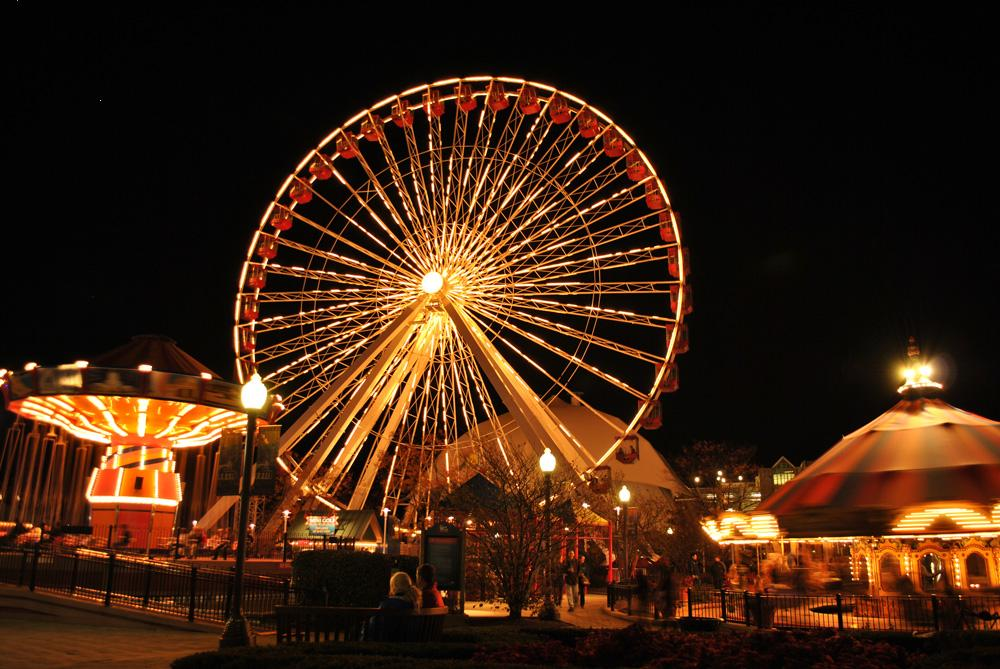
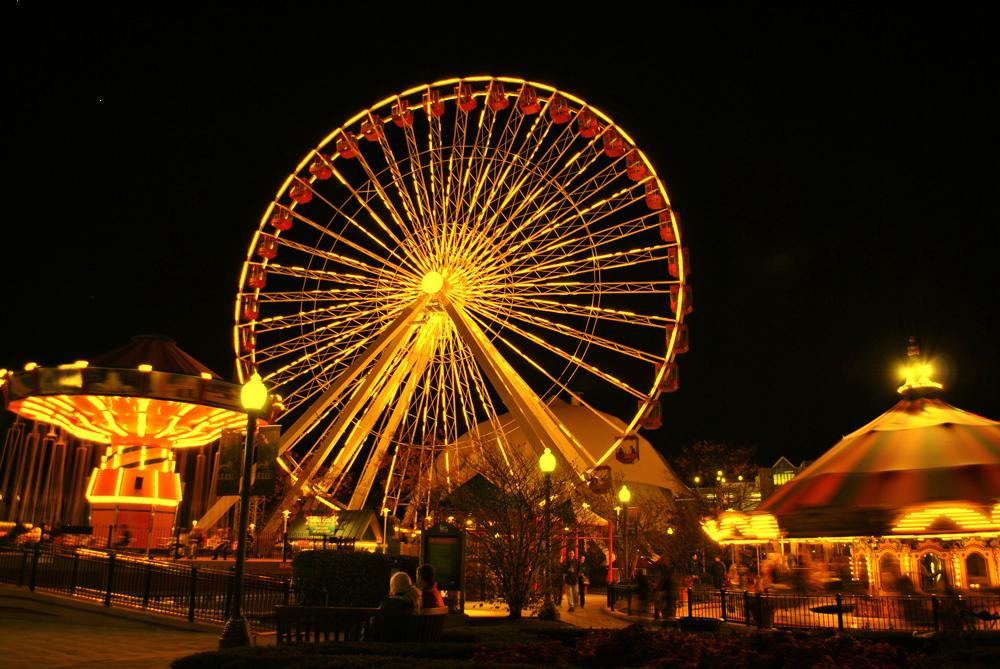
inverse kitty black and white beach

diff --git a/ColorLabs17/doc/TestPicture17.html b/ColorLabs17/doc/TestPicture17.html
@@ -1,0 +1,113 @@
+<!DOCTYPE HTML>
+<html lang="en">
+<head>
+<!-- Generated by javadoc (21) on Mon Nov 10 07:48:51 CST 2025 -->
+<title>TestPicture17</title>
+<meta name="viewport" content="width=device-width, initial-scale=1">
+<meta http-equiv="Content-Type" content="text/html; charset=UTF-8">
+<meta name="dc.created" content="2025-11-10">
+<meta name="description" content="declaration: class: TestPicture17">
+<meta name="generator" content="javadoc/ClassWriterImpl">
+<link rel="stylesheet" type="text/css" href="stylesheet.css" title="Style">
+<script type="text/javascript" src="script.js"></script>
+</head>
+<body class="class-declaration-page">
+<script type="text/javascript"></script>
+<noscript>
+<div>JavaScript is disabled on your browser.</div>
+</noscript>
+<div class="flex-box">
+<div class="flex-content">
+<main role="main">
+<!-- ======== START OF CLASS DATA ======== -->
+<div class="header">
+<h1 title="Class TestPicture17" class="title">Class TestPicture17</h1>
+</div>
+<div class="inheritance" title="Inheritance Tree"><a href="https://docs.oracle.com/en/java/javase/21/docs/api/java.base/java/lang/Object.html" title="class or interface in java.lang" class="external-link">java.lang.Object</a>
+<div class="inheritance">TestPicture17</div>
+</div>
+<section class="class-description" id="class-description">
+<hr>
+<div class="type-signature"><span class="modifiers">public class </span><span class="element-name type-name-label">TestPicture17</span>
+<span class="extends-implements">extends <a href="https://docs.oracle.com/en/java/javase/21/docs/api/java.base/java/lang/Object.html" title="class or interface in java.lang" class="external-link">Object</a></span></div>
+</section>
+<section class="summary">
+<ul class="summary-list">
+<!-- ======== CONSTRUCTOR SUMMARY ======== -->
+<li>
+<section class="constructor-summary" id="constructor-summary">
+<h2>Constructor Summary</h2>
+<div class="caption"><span>Constructors</span></div>
+<div class="summary-table two-column-summary">
+<div class="table-header col-first">Constructor</div>
+<div class="table-header col-last">Description</div>
+<div class="col-constructor-name even-row-color"><code><a href="#%3Cinit%3E()" class="member-name-link">TestPicture17</a>()</code></div>
+<div class="col-last even-row-color">&nbsp;</div>
+</div>
+</section>
+</li>
+<!-- ========== METHOD SUMMARY =========== -->
+<li>
+<section class="method-summary" id="method-summary">
+<h2>Method Summary</h2>
+<div id="method-summary-table">
+<div class="table-tabs" role="tablist" aria-orientation="horizontal"><button id="method-summary-table-tab0" role="tab" aria-selected="true" aria-controls="method-summary-table.tabpanel" tabindex="0" onkeydown="switchTab(event)" onclick="show('method-summary-table', 'method-summary-table', 3)" class="active-table-tab">All Methods</button><button id="method-summary-table-tab1" role="tab" aria-selected="false" aria-controls="method-summary-table.tabpanel" tabindex="-1" onkeydown="switchTab(event)" onclick="show('method-summary-table', 'method-summary-table-tab1', 3)" class="table-tab">Static Methods</button><button id="method-summary-table-tab4" role="tab" aria-selected="false" aria-controls="method-summary-table.tabpanel" tabindex="-1" onkeydown="switchTab(event)" onclick="show('method-summary-table', 'method-summary-table-tab4', 3)" class="table-tab">Concrete Methods</button></div>
+<div id="method-summary-table.tabpanel" role="tabpanel" aria-labelledby="method-summary-table-tab0">
+<div class="summary-table three-column-summary">
+<div class="table-header col-first">Modifier and Type</div>
+<div class="table-header col-second">Method</div>
+<div class="table-header col-last">Description</div>
+<div class="col-first even-row-color method-summary-table method-summary-table-tab1 method-summary-table-tab4"><code>static void</code></div>
+<div class="col-second even-row-color method-summary-table method-summary-table-tab1 method-summary-table-tab4"><code><a href="#main(java.lang.String%5B%5D)" class="member-name-link">main</a><wbr>(<a href="https://docs.oracle.com/en/java/javase/21/docs/api/java.base/java/lang/String.html" title="class or interface in java.lang" class="external-link">String</a>[]&nbsp;args)</code></div>
+<div class="col-last even-row-color method-summary-table method-summary-table-tab1 method-summary-table-tab4">
+<div class="block">main method, to test the picture</div>
+</div>
+</div>
+</div>
+</div>
+<div class="inherited-list">
+<h3 id="methods-inherited-from-class-java.lang.Object">Methods inherited from class&nbsp;java.lang.<a href="https://docs.oracle.com/en/java/javase/21/docs/api/java.base/java/lang/Object.html" title="class or interface in java.lang" class="external-link">Object</a></h3>
+<code><a href="https://docs.oracle.com/en/java/javase/21/docs/api/java.base/java/lang/Object.html#clone()" title="class or interface in java.lang" class="external-link">clone</a>, <a href="https://docs.oracle.com/en/java/javase/21/docs/api/java.base/java/lang/Object.html#equals(java.lang.Object)" title="class or interface in java.lang" class="external-link">equals</a>, <a href="https://docs.oracle.com/en/java/javase/21/docs/api/java.base/java/lang/Object.html#getClass()" title="class or interface in java.lang" class="external-link">getClass</a>, <a href="https://docs.oracle.com/en/java/javase/21/docs/api/java.base/java/lang/Object.html#hashCode()" title="class or interface in java.lang" class="external-link">hashCode</a>, <a href="https://docs.oracle.com/en/java/javase/21/docs/api/java.base/java/lang/Object.html#notify()" title="class or interface in java.lang" class="external-link">notify</a>, <a href="https://docs.oracle.com/en/java/javase/21/docs/api/java.base/java/lang/Object.html#notifyAll()" title="class or interface in java.lang" class="external-link">notifyAll</a>, <a href="https://docs.oracle.com/en/java/javase/21/docs/api/java.base/java/lang/Object.html#toString()" title="class or interface in java.lang" class="external-link">toString</a>, <a href="https://docs.oracle.com/en/java/javase/21/docs/api/java.base/java/lang/Object.html#wait()" title="class or interface in java.lang" class="external-link">wait</a>, <a href="https://docs.oracle.com/en/java/javase/21/docs/api/java.base/java/lang/Object.html#wait(long)" title="class or interface in java.lang" class="external-link">wait</a>, <a href="https://docs.oracle.com/en/java/javase/21/docs/api/java.base/java/lang/Object.html#wait(long,int)" title="class or interface in java.lang" class="external-link">wait</a></code></div>
+</section>
+</li>
+</ul>
+</section>
+<section class="details">
+<ul class="details-list">
+<!-- ========= CONSTRUCTOR DETAIL ======== -->
+<li>
+<section class="constructor-details" id="constructor-detail">
+<h2>Constructor Details</h2>
+<ul class="member-list">
+<li>
+<section class="detail" id="&lt;init&gt;()">
+<h3>TestPicture17</h3>
+<div class="member-signature"><span class="modifiers">public</span>&nbsp;<span class="element-name">TestPicture17</span>()</div>
+</section>
+</li>
+</ul>
+</section>
+</li>
+<!-- ============ METHOD DETAIL ========== -->
+<li>
+<section class="method-details" id="method-detail">
+<h2>Method Details</h2>
+<ul class="member-list">
+<li>
+<section class="detail" id="main(java.lang.String[])">
+<h3>main</h3>
+<div class="member-signature"><span class="modifiers">public static</span>&nbsp;<span class="return-type">void</span>&nbsp;<span class="element-name">main</span><wbr><span class="parameters">(<a href="https://docs.oracle.com/en/java/javase/21/docs/api/java.base/java/lang/String.html" title="class or interface in java.lang" class="external-link">String</a>[]&nbsp;args)</span></div>
+<div class="block">main method, to test the picture</div>
+</section>
+</li>
+</ul>
+</section>
+</li>
+</ul>
+</section>
+<!-- ========= END OF CLASS DATA ========= -->
+</main>
+</div>
+</div>
+</body>
+</html>

diff --git a/ColorLabs17/doc/package-summary.html b/ColorLabs17/doc/package-summary.html
@@ -1,11 +1,11 @@
 <!DOCTYPE HTML>
 <html lang="en">
 <head>
-<!-- Generated by javadoc (21) on Fri Nov 07 08:19:51 CST 2025 -->
+<!-- Generated by javadoc (21) on Mon Nov 10 07:48:51 CST 2025 -->
 <title>Unnamed Package</title>
 <meta name="viewport" content="width=device-width, initial-scale=1">
 <meta http-equiv="Content-Type" content="text/html; charset=UTF-8">
-<meta name="dc.created" content="2025-11-07">
+<meta name="dc.created" content="2025-11-10">
 <meta name="description" content="declaration: package: &lt;unnamed&gt;">
 <meta name="generator" content="javadoc/PackageWriterImpl">
 <link rel="stylesheet" type="text/css" href="stylesheet.css" title="Style">
@@ -31,10 +31,8 @@
 <div class="summary-table two-column-summary">
 <div class="table-header col-first">Class</div>
 <div class="table-header col-last">Description</div>
-<div class="col-first even-row-color class-summary class-summary-tab2"><a href="Pixel.html" title="class in Unnamed Package">Pixel</a></div>
-<div class="col-last even-row-color class-summary class-summary-tab2">
-<div class="block">Class that references a pixel in a picture.</div>
-</div>
+<div class="col-first even-row-color class-summary class-summary-tab2"><a href="TestPicture17.html" title="class in Unnamed Package">TestPicture17</a></div>
+<div class="col-last even-row-color class-summary class-summary-tab2">&nbsp;</div>
 </div>
 </div>
 </li>

diff --git a/ColorLabs17/doc/index.html b/ColorLabs17/doc/index.html
@@ -1,11 +1,11 @@
 <!DOCTYPE HTML>
 <html lang="en">
 <head>
-<!-- Generated by javadoc (21) on Fri Nov 07 08:19:51 CST 2025 -->
+<!-- Generated by javadoc (21) on Mon Nov 10 07:48:51 CST 2025 -->
 <title>Generated Documentation (Untitled)</title>
 <meta name="viewport" content="width=device-width, initial-scale=1">
 <meta http-equiv="Content-Type" content="text/html; charset=UTF-8">
-<meta name="dc.created" content="2025-11-07">
+<meta name="dc.created" content="2025-11-10">
 <meta name="description" content="index redirect">
 <meta name="generator" content="javadoc/IndexRedirectWriter">
 <link rel="canonical" href="package-summary.html">

diff --git a/ColorLabs17/TestPicture17.java b/ColorLabs17/TestPicture17.java
@@ -34,14 +34,18 @@ public class TestPicture17
      Picture kitty = new Picture("images/kitten2.jpg");
 
      //apic.explore();!!!!!!!!!!!!!!!!! dispalys the picture
-     ferris1.explore();
-     kitty.explore();
+     //ferris1.explore();
+     //kitty.explore();
      
      //to change color fo picture get all of the pixels!!!!!!!!!!!!!
      //makes an array of pixels
      Pixel[] pixels;
      //gets pixels from picture and assigns to pixels array
      pixels = ferris1.getPixels();
+     Pixel[] pixels1;
+     pixels1 = kitty.getPixels();
+     Pixel[] pixels2;
+     pixels2 = apic.getPixels();
     
      //how many pixels or how large array
     System.out.println("This is a large array"+pixels.length  );
@@ -63,8 +67,8 @@ public class TestPicture17
     ferris1.explore();
     
     spot.setColor(Color.yellow);
-    spot50.setColor();
-    ferris1.explore();
+    //spot50.setColor();
+    //ferris1.explore();
 /*
     pixels[17].setColor(Color.blue);
     spot.setColor(new Color(252,252,252));
@@ -73,12 +77,65 @@ public class TestPicture17
     ferris1.explore();
 /*
    // loop to access indexes of array or collection
-
+*/
     //for each loop spot  is a ?
-    for (Pixel spot : pixels)
-    System.out.println( spot );
-
-
+    int blue;
+    int red;
+    int green;
+    int rng;
+    for (Pixel spot1 : pixels){
+        //System.out.println( spot1 );
+        blue = spot1.getBlue();
+        rng = (int)(.25 * blue);
+        spot1.setBlue(rng);
+    }
+    ferris1.explore();
+    
+    int iGreen;
+    int iBlue;
+    int iRed;
+    for (Pixel spot1 : pixels1){
+        //System.out.println( spot1 );
+        green = spot1.getGreen();
+        blue = spot1.getBlue();
+        red = spot1.getRed();
+        iGreen = (int)((green - 255) * -1);
+        iBlue = (int)((blue - 255) * -1);
+        iRed = (int)((red - 255) * -1);
+        spot1.setGreen(iGreen);
+        spot1.setBlue(iBlue);
+        spot1.setRed(iRed);
+    }
+    kitty.explore();
+    int avg;
+    for (Pixel spot1 : pixels2){
+        //System.out.println( spot1 );
+        green = spot1.getGreen();
+        blue = spot1.getBlue();
+        red = spot1.getRed();
+        avg = (red + blue + green) / 3;
+        spot1.setGreen(avg);
+        spot1.setBlue(avg);
+        spot1.setRed(avg);
+    }
+    
+    apic.explore();
+    
+    
+    /*
+    int red;
+    for (Pixel spot1 : pixels){
+        //System.out.println( spot1 );
+        red = spot1.getRed();
+        rng = (int)(Math.random() * red);
+        spot1.setRed(rng);
+    }
+    ferris1.explore();
+    
+    int green;
+    int count = 0;
+    
+*/
    
  /**/
 
